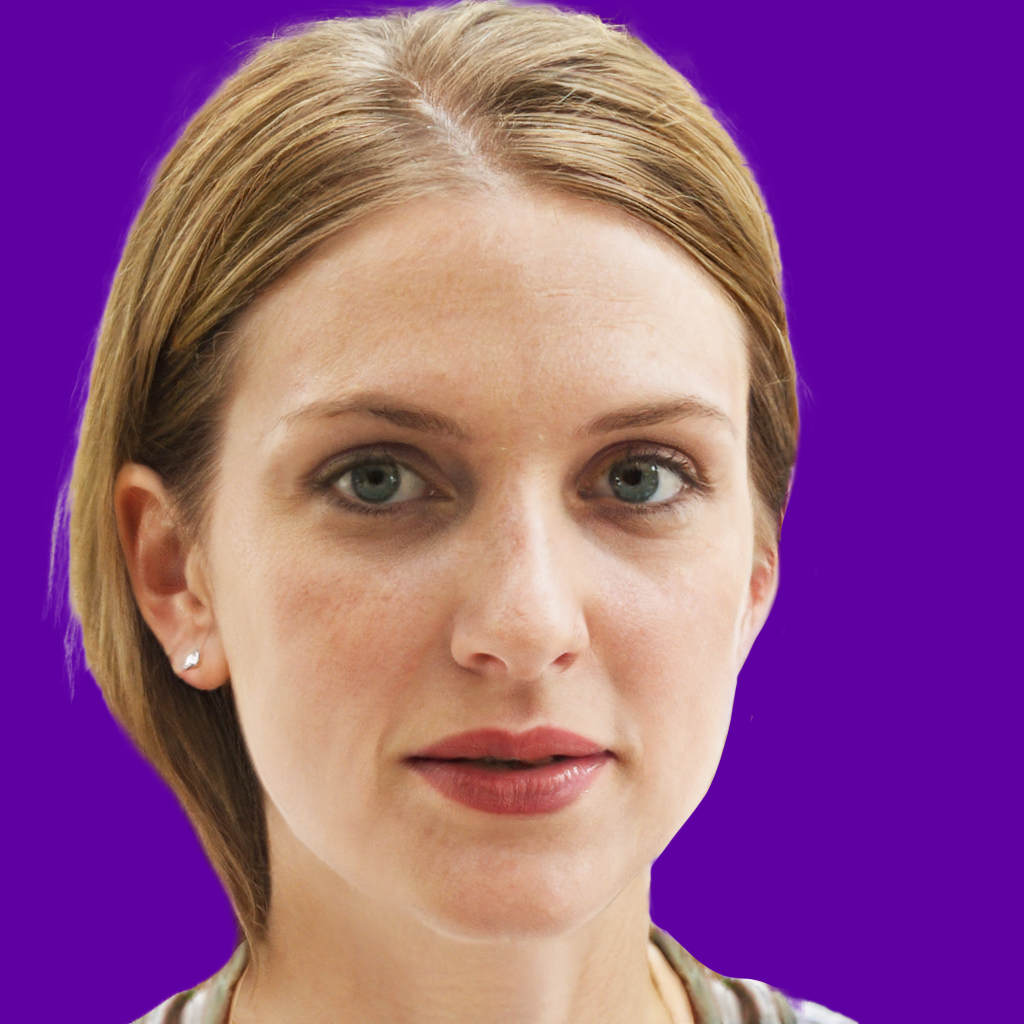
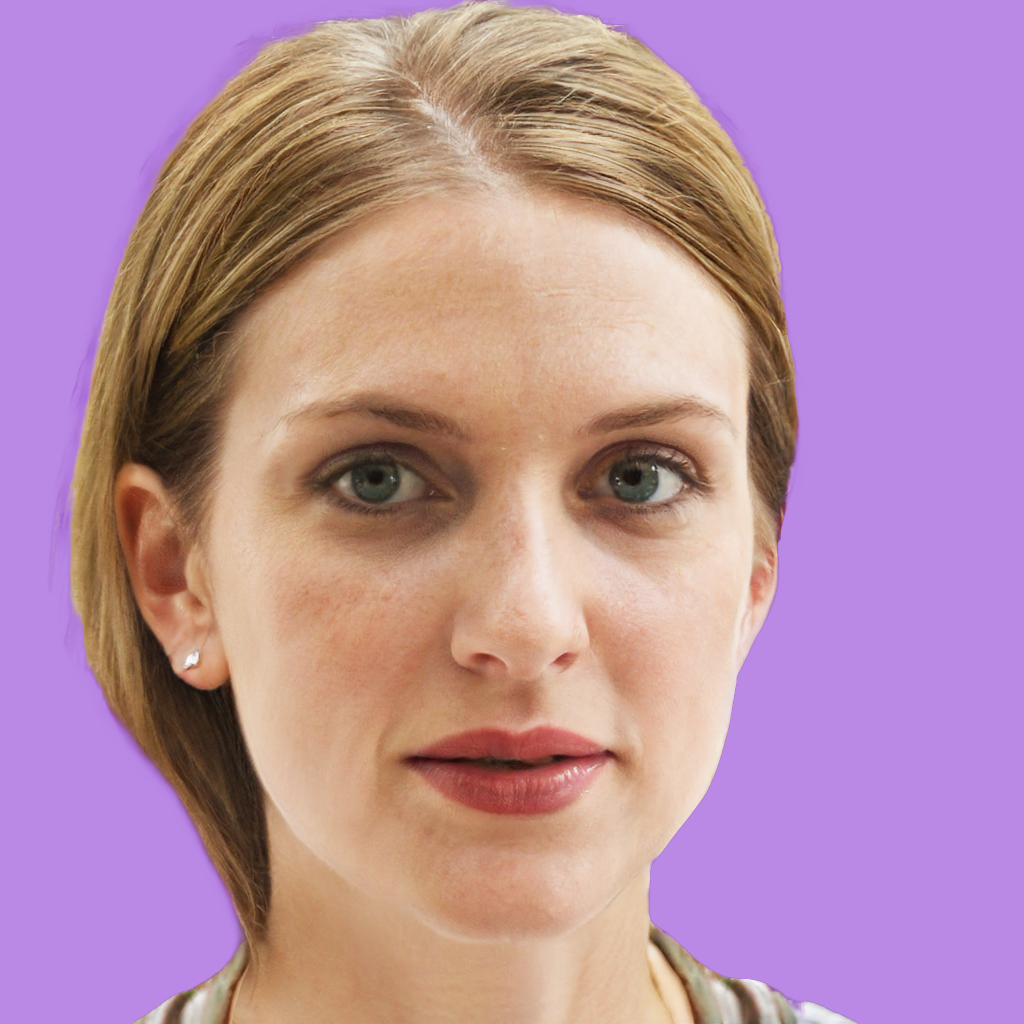
Add files via upload

diff --git a/css/main.css b/css/main.css
@@ -255,7 +255,7 @@ p {
   transition: all 0.3s;
 }
 .header__nav-item:hover {
-  color: #5F00A2;
+  color: #BA89E5;
 }
 .header__nav-link {
   font-weight: 700;
@@ -505,11 +505,11 @@ p {
 }
 
 .purple {
-  background-color: #5F00A2;
+  background-color: #BA89E5;
 }
 .purple__img {
   border-radius: 15px;
-  border: 6px solid #5F00A2;
+  border: 6px solid #BA89E5;
 }
 
 .yellow {
@@ -628,7 +628,7 @@ p {
   margin: 0 auto;
   width: 19px;
   height: 19px;
-  background: #5F00A2;
+  background: #BA89E5;
   border: 2px solid #000000;
   border-radius: 50%;
   transform: translate(-590px, 0px);
@@ -679,7 +679,7 @@ p {
   margin: 0 auto;
   width: 19px;
   height: 19px;
-  background: #5F00A2;
+  background: #BA89E5;
   border: 2px solid #000000;
   border-radius: 50%;
   transform: translate(-590px, 0px);
@@ -2121,8 +2121,8 @@ p {
 }
 .build__scroll-item:hover {
   color: #fff;
-  background-color: #5F00A2;
-  border: 1px solid #5F00A2;
+  background-color: #BA89E5;
+  border: 1px solid #BA89E5;
 }
 @keyframes scrl {
   100% {
@@ -2282,7 +2282,7 @@ p {
 .service__grid-item {
   padding: 52px 10px 88px 37px;
   background-color: #EDEDED;
-  box-shadow: 17px 13px #5F00A2;
+  box-shadow: 17px 13px #BA89E5;
   border-radius: 19px;
   transition: all 0.8s ease;
   position: relative;
@@ -2291,7 +2291,7 @@ p {
   position: relative;
 }
 .service__grid-item:hover {
-  background-color: #5F00A2;
+  background-color: #BA89E5;
   box-shadow: 17px 13px #E6FF28;
   color: #fff;
   cursor: default;
@@ -2770,7 +2770,7 @@ p {
   }
   .service__grid-item {
     padding: 52px 10px 88px 37px;
-    background-color: #5F00A2;
+    background-color: #BA89E5;
     box-shadow: 17px 13px #E6FF28;
     color: #fff;
     border-radius: 19px;
@@ -2794,7 +2794,7 @@ p {
     opacity: 1;
   }
   .service__grid-item:hover {
-    background-color: #5F00A2;
+    background-color: #BA89E5;
     box-shadow: 17px 13px #E6FF28;
     color: #fff;
     cursor: default;
@@ -3234,7 +3234,7 @@ p {
   fill: #fff;
 }
 .testimonials__slider-arrow:hover::before {
-  background-color: #5F00A2;
+  background-color: #BA89E5;
   transform: scale(1.1);
 }
 
@@ -3253,7 +3253,7 @@ p {
   fill: #fff;
 }
 .testimonials__slider-arrows:hover::before {
-  background-color: #5F00A2;
+  background-color: #BA89E5;
   transform: scale(1.1);
 }
 
@@ -3464,7 +3464,7 @@ p {
   fill: #fff;
 }
 .case__slider-arrow:hover::before {
-  background-color: #5F00A2;
+  background-color: #BA89E5;
   transform: scale(1.1);
 }
 
@@ -3483,7 +3483,7 @@ p {
   fill: #fff;
 }
 .case__slider-arrows:hover::before {
-  background-color: #5F00A2;
+  background-color: #BA89E5;
   transform: scale(1.1);
 }
 
@@ -3701,7 +3701,7 @@ p {
   font-size: 30px;
 }
 .qoutcomes__scroll-item:hover {
-  color: #5F00A2;
+  color: #BA89E5;
 }
 @keyframes scr {
   100% {
@@ -3753,14 +3753,14 @@ p {
 .business__box {
   padding: 75px 37px 60px 37px;
   background-color: #EDEDED;
-  box-shadow: 17px 13px #5F00A2;
+  box-shadow: 17px 13px #BA89E5;
   max-width: 1000px;
   border-radius: 19px;
   transition: all 0.8s ease;
   position: relative;
 }
 .business__box:hover {
-  background-color: #5F00A2;
+  background-color: #BA89E5;
   box-shadow: 17px 13px #E6FF28;
   color: #fff;
   cursor: default;
@@ -3794,7 +3794,7 @@ p {
 
 @media (max-width: 750px) {
   .business__box.active {
-    background-color: #5F00A2;
+    background-color: #BA89E5;
     box-shadow: 17px 13px #E6FF28;
     color: #fff;
     cursor: default;
@@ -3979,7 +3979,7 @@ p {
   margin-bottom: 0;
 }
 .footer__nav-item:hover {
-  color: #5F00A2;
+  color: #BA89E5;
 }
 
 .footer__bottom {
@@ -4002,7 +4002,7 @@ p {
   margin-right: 0;
 }
 .footer__bottom-item:hover {
-  color: #5F00A2;
+  color: #BA89E5;
 }
 
 @media (max-width: 1000px) {

diff --git a/index.html b/index.html
@@ -165,7 +165,7 @@
                         <div class="team__slaid yellow">
                             <div class="team__image-box yellow__img"> 
                                 <div class="team__image">
-                                    <img src="images/team/grph.jpg" alt="">
+                                    <img src="images/team/grph.png" alt="">
                                 </div>
                                 <div class="team__image-info yellow__info">
                                     <p class="team__info-name">Lucie</p>
@@ -176,7 +176,7 @@
                         <div class="team__slaid orange">
                             <div class="team__image-box orange__img"> 
                                 <div class="team__image">
-                                    <img src="images/team/ios.jpg" alt="">
+                                    <img src="images/team/ios.png" alt="">
                                 </div>
                                 <div class="team__image-info">
                                     <p class="team__info-name">Bai</p>
@@ -275,7 +275,7 @@
                         <div class="team__slaid yellow">
                             <div class="team__image-box yellow__img"> 
                                 <div class="team__image">
-                                    <img src="images/team/grph.jpg" alt="">
+                                    <img src="images/team/grph.png" alt="">
                                 </div>
                                 <div class="team__image-info yellow__info">
                                     <p class="team__info-name">Lucie</p>
@@ -286,7 +286,7 @@
                         <div class="team__slaid orange">
                             <div class="team__image-box orange__img"> 
                                 <div class="team__image">
-                                    <img src="images/team/ios.jpg" alt="">
+                                    <img src="images/team/ios.png" alt="">
                                 </div>
                                 <div class="team__image-info">
                                     <p class="team__info-name">Bai</p>
